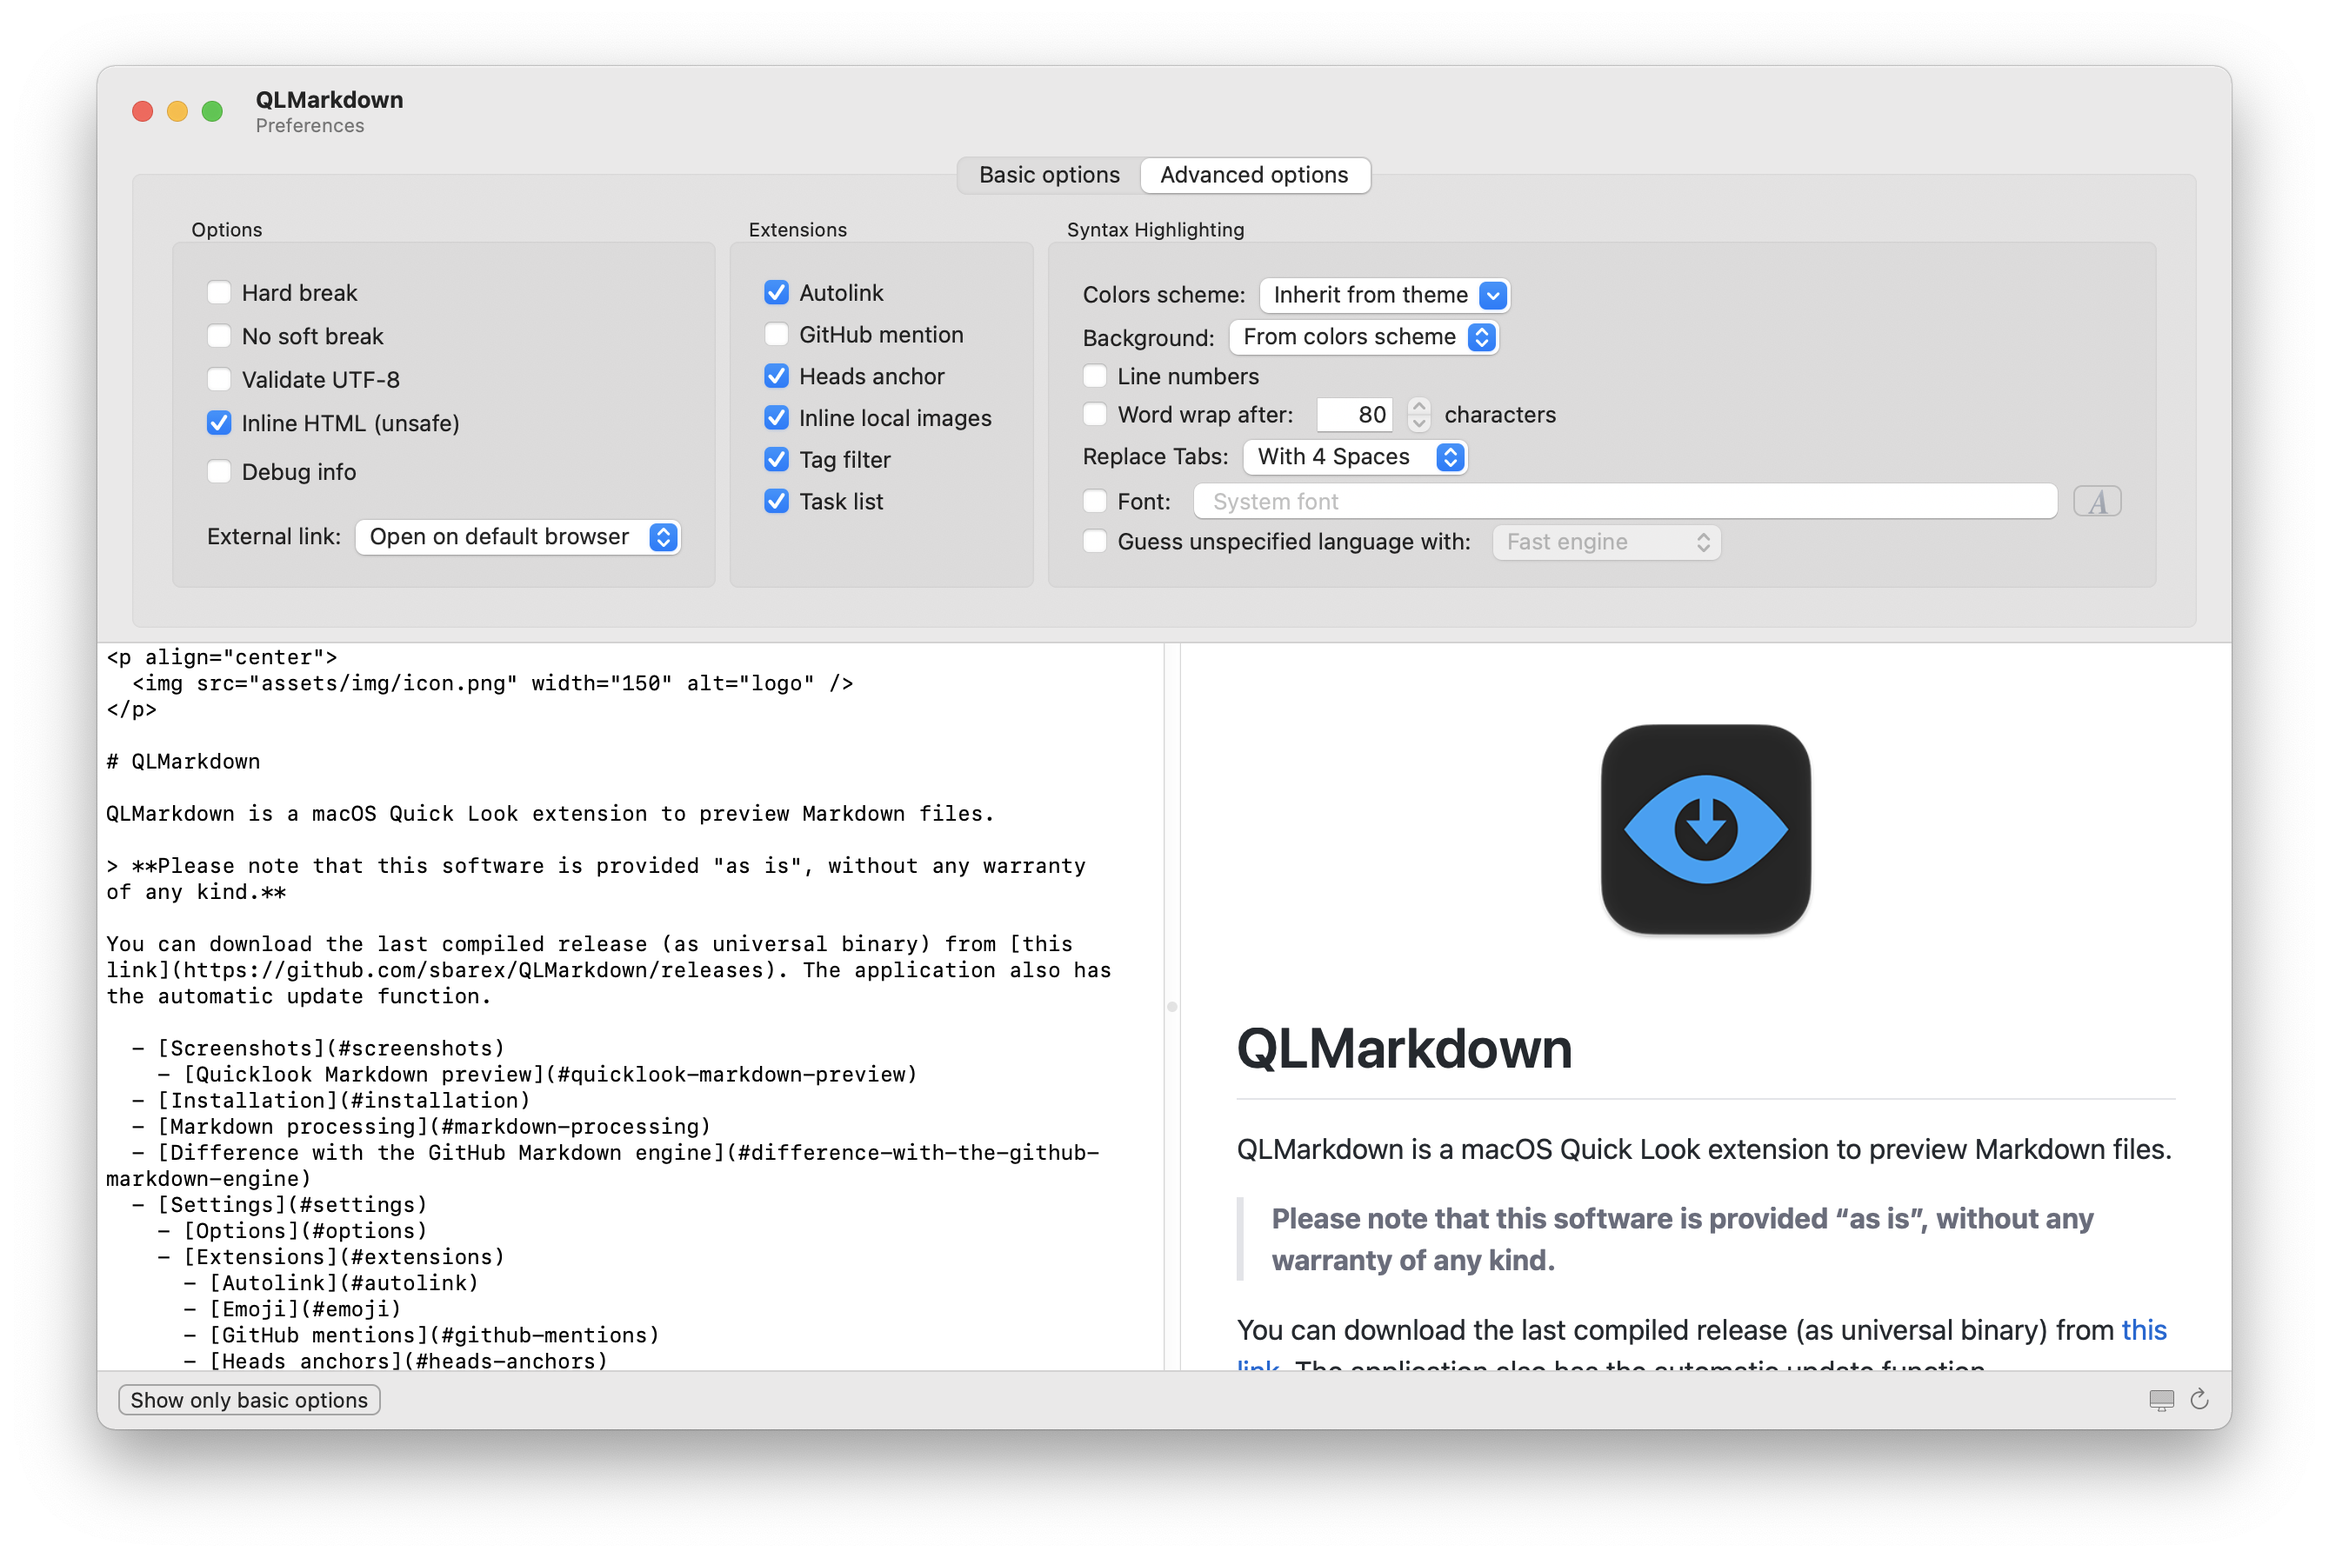
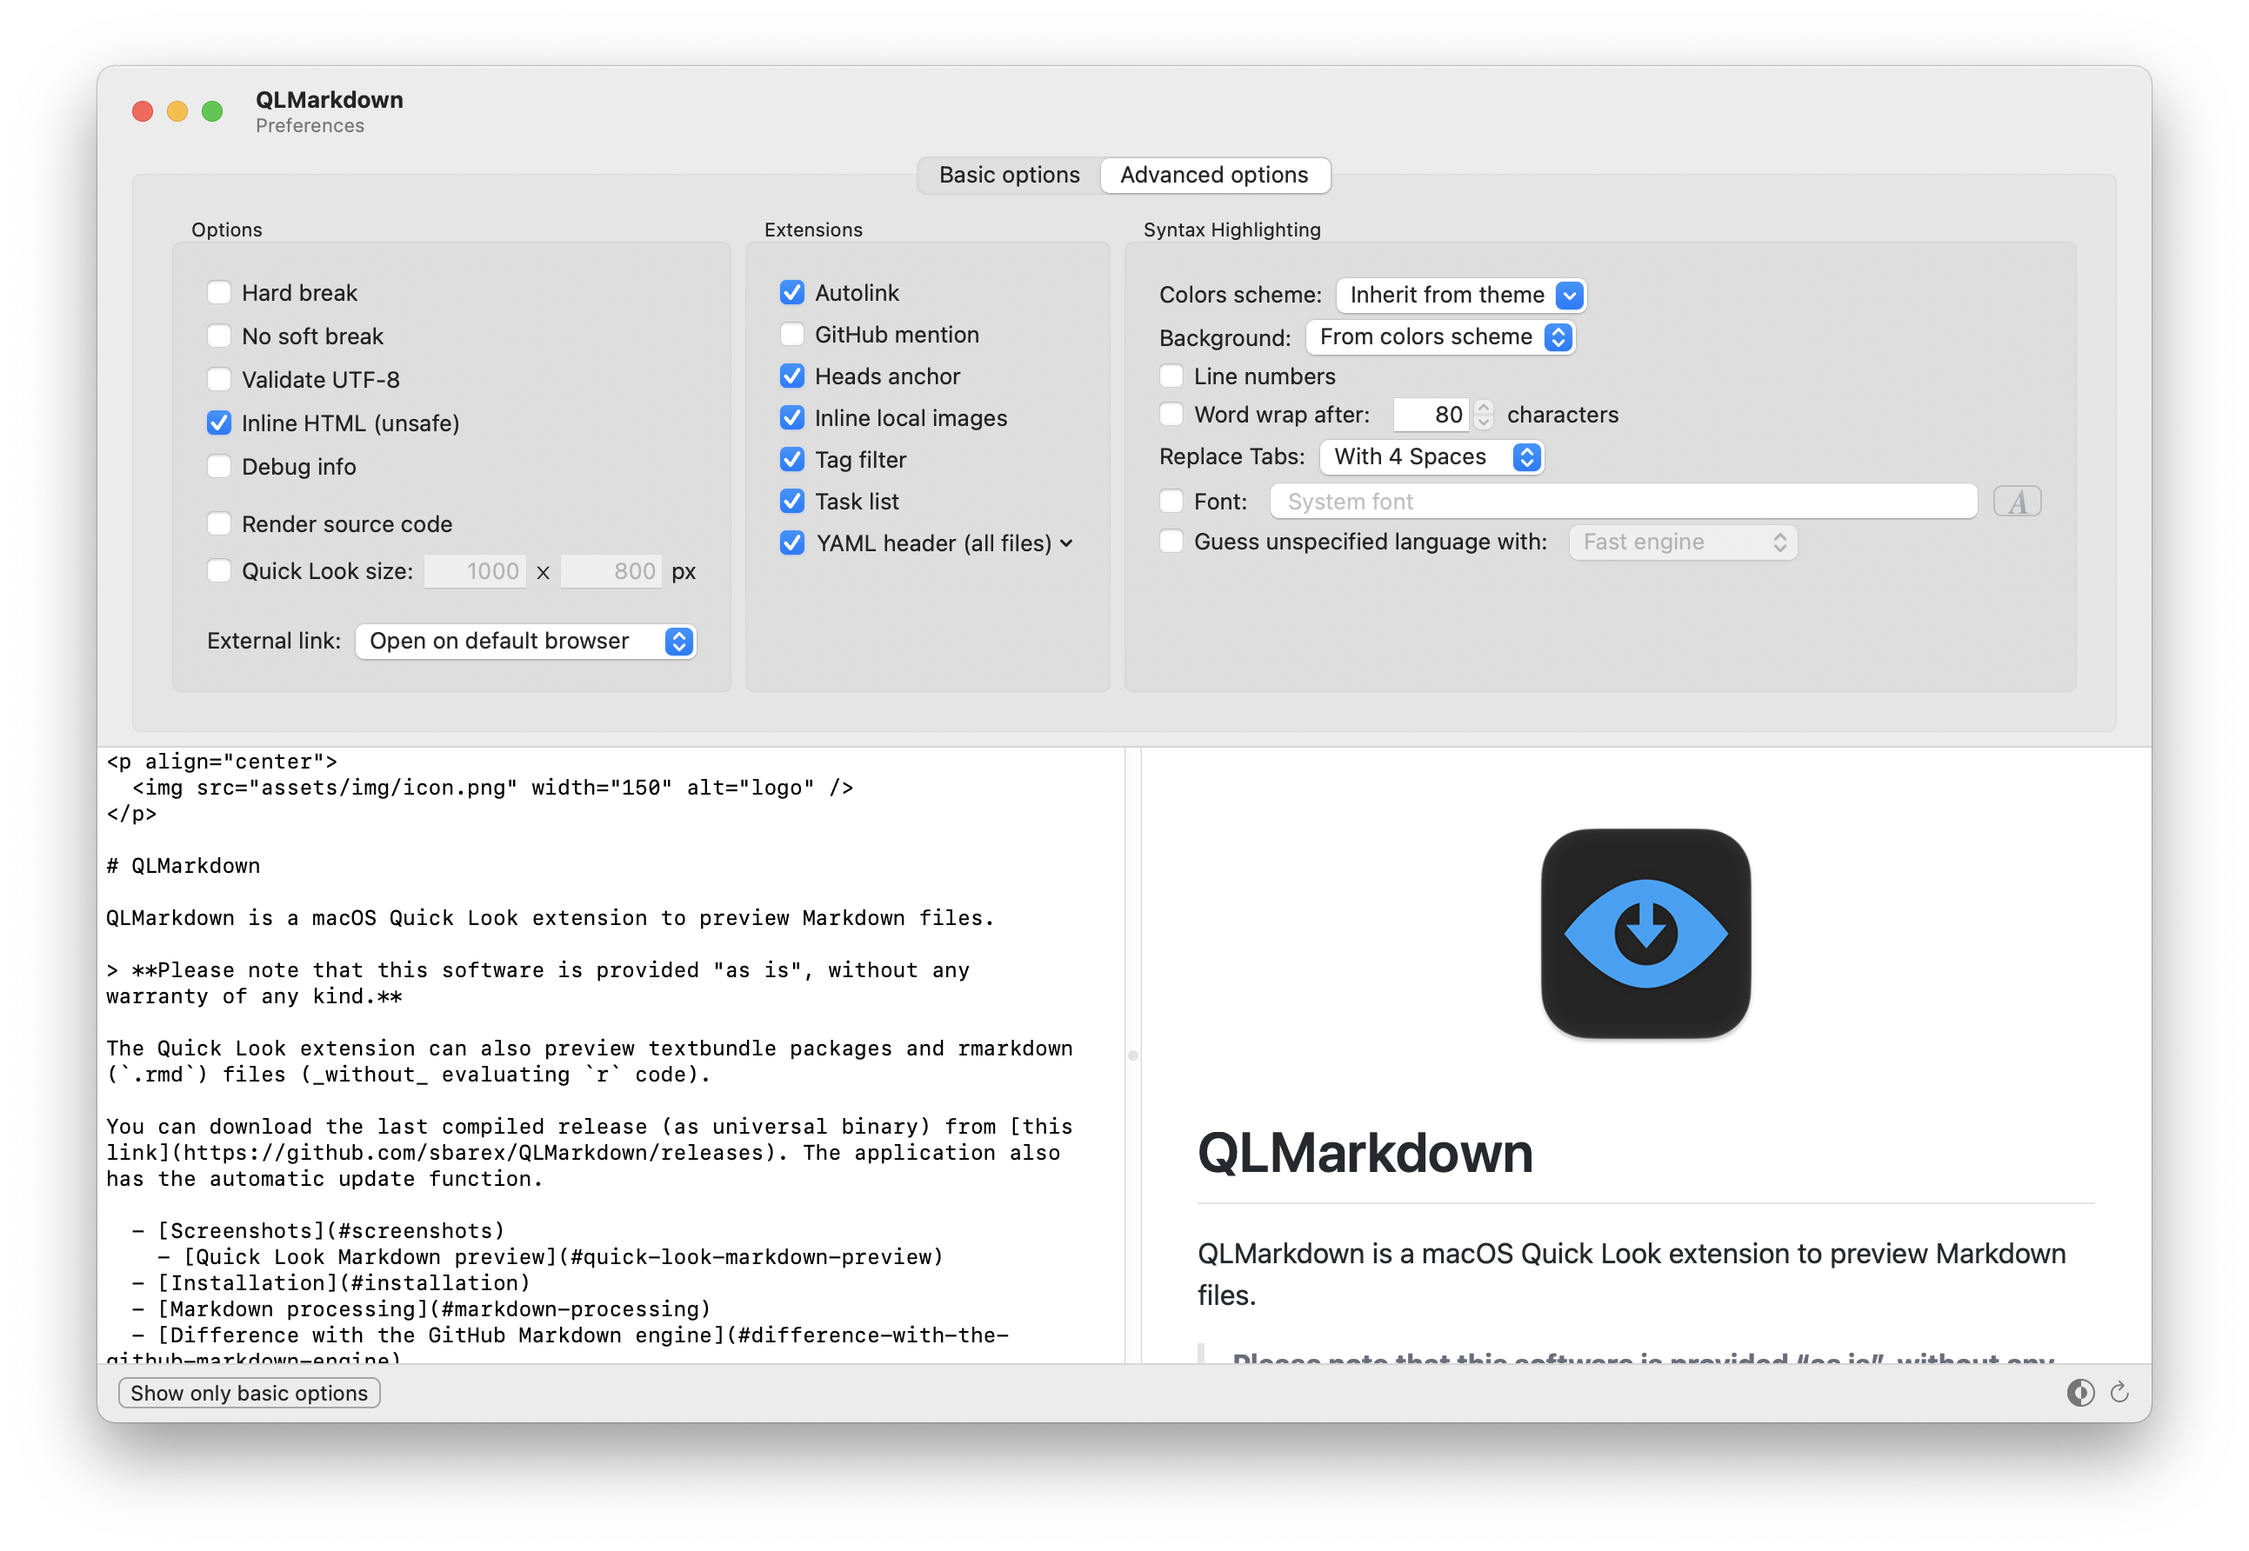
Experimental support for defining the size of the Quick Look window.

diff --git a/QLMarkdown/ViewController.swift b/QLMarkdown/ViewController.swift
@@ -223,6 +223,22 @@ class ViewController: NSViewController {
             isDirty = true
         }
     }
+    
+    @objc dynamic var qlWindowSizeCustomized: Bool = false {
+        didSet {
+            isDirty = true
+        }
+    }
+    @objc dynamic var qlWindowWidth: Int = Settings.factorySettings.qlWindowWidth ?? 1000 {
+        didSet {
+            isDirty = true
+        }
+    }
+    @objc dynamic var qlWindowHeight: Int = Settings.factorySettings.qlWindowHeight ?? 800 {
+        didSet {
+            isDirty = true
+        }
+    }
 
     @objc dynamic var customCSSOverride: Bool = Settings.factorySettings.customCSSOverride {
         didSet {
@@ -412,6 +428,9 @@ class ViewController: NSViewController {
     @IBOutlet weak var inlineLinkPopup: NSPopUpButton!
     
     @IBOutlet weak var appearanceButton: NSButton!
+    
+    @IBOutlet weak var gridView: NSGridView!
+    @IBOutlet weak var qlWindowSizeButton: NSButton!
     
     private let log = {
         return OSLog(subsystem: Bundle.main.bundleIdentifier!, category: "quicklook.qlmarkdown-host")
@@ -663,7 +682,7 @@ document.addEventListener('scroll', function(e) {
 </script>
 """
         
-        let html = settings.getCompleteHTML(title: ".md", body: body, header: header, footer: "", basedir: Bundle.main.resourceURL ?? Bundle.main.bundleURL.deletingLastPathComponent(), forAppearance: appearance)
+        let html = settings.getCompleteHTML(title: ".md", body: body, header: header, footer: "", basedir: self.markdown_file?.deletingLastPathComponent() ?? Bundle.main.resourceURL ?? Bundle.main.bundleURL.deletingLastPathComponent(), forAppearance: appearance)
         webView.loadHTMLString(html, baseURL: markdown_file?.deletingLastPathComponent())
     }
     
@@ -983,6 +1002,10 @@ document.addEventListener('scroll', function(e) {
         self.debugMode = settings.debug
         self.renderAsCode = settings.renderAsCode
         
+        self.qlWindowSizeCustomized = settings.qlWindowWidth ?? 0 > 0 && settings.qlWindowHeight ?? 0 > 0
+        self.qlWindowWidth = settings.qlWindowWidth ?? 1000
+        self.qlWindowHeight = settings.qlWindowHeight ?? 800
+        
         self.tableExtension = settings.tableExtension
         self.autoLinkExtension = settings.autoLinkExtension
         self.tagFilterExtension = settings.tagFilterExtension
@@ -1068,6 +1091,8 @@ document.addEventListener('scroll', function(e) {
         
         settings.debug = self.debugMode
         settings.renderAsCode = self.renderAsCode
+        settings.qlWindowWidth = self.qlWindowSizeCustomized ? self.qlWindowWidth : nil
+        settings.qlWindowHeight = self.qlWindowSizeCustomized ? self.qlWindowHeight : nil
         
         settings.tableExtension = self.tableExtension
         settings.autoLinkExtension = self.autoLinkExtension
@@ -1290,7 +1315,7 @@ class DropableTextView: NSTextView {
     func endDrag(_ sender: NSDraggingInfo) {
         if let fileUrl = sender.draggingPasteboard.pasteboardItems?.first?.propertyList(forType: .fileURL) as? String, let url = URL(string: fileUrl) {
             
-            print(url.path)
+            // print(url.path)
         } else {
             print("fail")
         }

diff --git a/QLMarkdown/Settings.swift b/QLMarkdown/Settings.swift
@@ -79,6 +79,15 @@ class Settings {
     @objc var openInlineLink: Bool = false
     
     @objc var renderAsCode: Bool = false
+    var qlWindowWidth: Int? = nil
+    var qlWindowHeight: Int? = nil
+    var qlWindowSize: CGSize {
+        if let w = qlWindowWidth, w > 0, let h = qlWindowHeight, h > 0 {
+            return CGSize(width: w, height: h)
+        } else {
+            return .zero
+        }
+    }
     @objc var debug: Bool = false
     
     
@@ -254,6 +263,12 @@ class Settings {
         if let opt = defaultsDomain["render-as-code"] as? Bool {
             renderAsCode = opt
         }
+        if let opt = defaultsDomain["ql-window-width"] as? Int, opt > 0 {
+            qlWindowWidth = opt
+        }
+        if let opt = defaultsDomain["ql-window-height"] as? Int, opt > 0 {
+            qlWindowHeight = opt
+        }
         
         sanitizeEmojiOption()
     }
@@ -312,6 +327,8 @@ class Settings {
     
             self.debug = s.debug
             self.renderAsCode = s.renderAsCode
+            self.qlWindowWidth = s.qlWindowWidth
+            self.qlWindowHeight = s.qlWindowHeight
             
             DistributedNotificationCenter.default().post(name: .QLMarkdownSettingsUpdated, object: nil)
         }

diff --git a/QLExtension/PreviewViewController.swift b/QLExtension/PreviewViewController.swift
@@ -80,6 +80,8 @@ class PreviewViewController: NSViewController, QLPreviewingController {
         
         let settings = Settings.shared
         
+        self.preferredContentSize = settings.qlWindowSize
+        
         let previewRect: CGRect
         if #available(macOS 11, *) {
             previewRect = self.view.bounds
@@ -201,7 +203,7 @@ class PreviewViewController: NSViewController, QLPreviewingController {
         do {
             Settings.shared.initFromDefaults()
             let html = try renderMD(url: request.fileURL)
-            let replay = QLPreviewReply(dataOfContentType: .html, contentSize: .zero) { _ in
+            let replay = QLPreviewReply(dataOfContentType: .html, contentSize: Settings.shared.qlWindowSize) { _ in
                 return html.data(using: .utf8)!
             }
             

diff --git a/QLMarkdown/Settings+ext.swift b/QLMarkdown/Settings+ext.swift
@@ -58,6 +58,9 @@ extension Settings {
         defaultsDomain["inline-link"] = openInlineLink
         defaultsDomain["render-as-code"] = self.renderAsCode
         
+        defaultsDomain["ql-window-width"] = self.qlWindowWidth
+        defaultsDomain["ql-window-height"] = self.qlWindowHeight
+        
         let file: String
         if let url = customCSS {
             if let folder = Settings.stylesFolder?.path, url.path.hasPrefix(folder) {

diff --git a/README.md b/README.md
@@ -4,9 +4,11 @@
 
 # QLMarkdown
 
-QLMarkdown is a macOS Quick Look extension to preview Markdown files. It can also preview textbundle packages and rmarkdown (`.rmd`) files (_without_ evaluating `r` code).  
+QLMarkdown is a macOS Quick Look extension to preview Markdown files.   
 
 > **Please note that this software is provided "as is", without any warranty of any kind.**
+
+The Quick Look extension can also preview textbundle packages and rmarkdown (`.rmd`) files (_without_ evaluating `r` code).
 
 You can download the last compiled release (as universal binary) from [this link](https://github.com/sbarex/QLMarkdown/releases). The application also has the automatic update function.
 
@@ -126,7 +128,9 @@ The options follow those offered by the `cmark-gfm`:
 
 In the advanced options, you can also choose if open external link inside the Quick Look preview window or in the default browser.
 
-With the `Render source code` enabled, the preview shows the highlighted source code instead of the formatted output. 
+With the `Render source code` enabled _(available on advanced options panel)_, the preview shows the highlighted source code instead of the formatted output. 
+
+The `Quick Look size` field _(available on advanced options panel)_ allow you to force a custom size for the content area of the Quick Look window. _Use with caution on macOS before version 12 Monterey_.
 
 ### Extensions
 

diff --git a/CHANGELOG.md b/CHANGELOG.md
@@ -1,6 +1,13 @@
 # Changelog
 
 
+### 1.0.9 (34)
+New features:
+- Experimental support for defining the size of the Quick Look window.
+- Magic `file` updated to release 5.41.
+Bugfix:
+- Fixed cross compile compilation of `file` library.
+
 ### 1.0.8 (33)
 Bugfix:
 - Fixed bug for undefined source code theme.
@@ -9,7 +16,6 @@ Bugfix:
 ### 1.0.7 (32)
 New features:
 - Support for render the markdown source code instead of the formatted output.
-
 
 ### 1.0.6 (31)
 New features:
